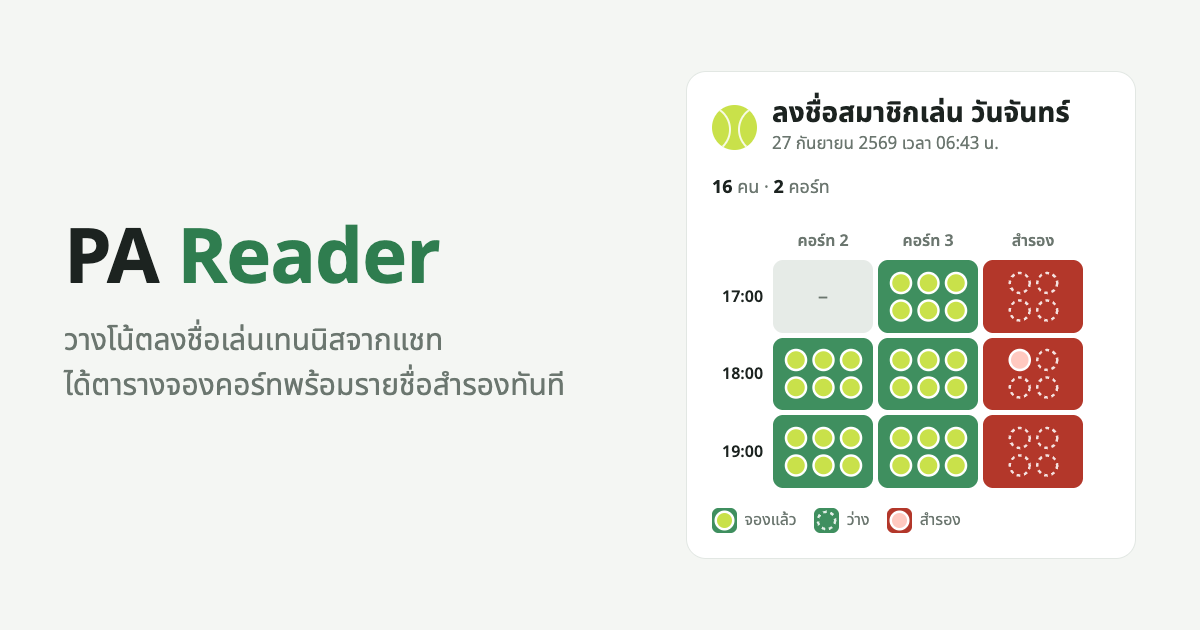
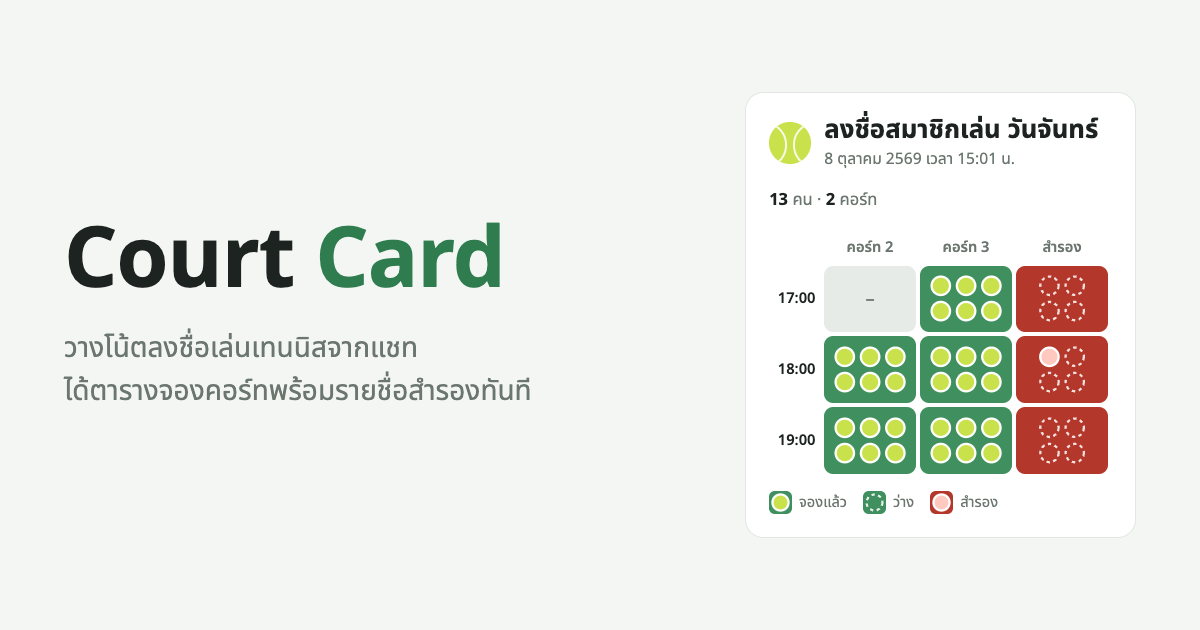
Rename project to Court Card

diff --git a/docs/index.html b/docs/index.html
@@ -3,21 +3,21 @@
 <head>
   <meta charset="utf-8">
   <meta name="viewport" content="width=device-width, initial-scale=1">
-  <title>PA Reader</title>
+  <title>Court Card</title>
   <meta name="description" content="วางโน้ตลงชื่อเล่นเทนนิสจากแชท แล้วได้ตารางจองคอร์ทพร้อมรายชื่อสำรองทันที">
   <meta property="og:type" content="website">
-  <meta property="og:site_name" content="PA Reader">
-  <meta property="og:title" content="PA Reader">
+  <meta property="og:site_name" content="Court Card">
+  <meta property="og:title" content="Court Card">
   <meta property="og:description" content="วางโน้ตลงชื่อเล่นเทนนิสจากแชท แล้วได้ตารางจองคอร์ทพร้อมรายชื่อสำรองทันที">
-  <meta property="og:url" content="https://diewland.github.io/pa-reader/">
+  <meta property="og:url" content="https://diewland.github.io/court-card/">
   <meta property="og:locale" content="th_TH">
-  <meta property="og:image" content="https://diewland.github.io/pa-reader/og.png">
+  <meta property="og:image" content="https://diewland.github.io/court-card/og.png">
   <meta property="og:image:width" content="1200">
   <meta property="og:image:height" content="630">
-  <meta property="og:image:alt" content="PA Reader: ตารางจองคอร์ทเทนนิสพร้อมแถวสำรอง">
+  <meta property="og:image:alt" content="Court Card: ตารางจองคอร์ทเทนนิสพร้อมแถวสำรอง">
   <meta name="twitter:card" content="summary_large_image">
-  <meta name="twitter:title" content="PA Reader">
-  <meta name="twitter:image" content="https://diewland.github.io/pa-reader/og.png">
+  <meta name="twitter:title" content="Court Card">
+  <meta name="twitter:image" content="https://diewland.github.io/court-card/og.png">
   <meta name="twitter:description" content="วางโน้ตลงชื่อเล่นเทนนิสจากแชท แล้วได้ตารางจองคอร์ทพร้อมรายชื่อสำรองทันที">
   <link rel="preconnect" href="https://fonts.googleapis.com">
   <link rel="preconnect" href="https://fonts.gstatic.com" crossorigin>
@@ -28,7 +28,7 @@
   <main class="layout">
     <section class="input">
       <header class="intro">
-        <h1>PA Reader</h1>
+        <h1>Court Card</h1>
       </header>
       <textarea id="note" spellcheck="false" rows="18" placeholder="วางโน้ตลงชื่อประจำวัน"></textarea>
       <div class="actions">

diff --git a/docs/app.js b/docs/app.js
@@ -308,7 +308,7 @@
   function pngName() {
     var d = new Date();
     function p(n) { return String(n).padStart(2, "0"); }
-    return "pa-reader-" + d.getFullYear() + "-" + p(d.getMonth() + 1) + "-" + p(d.getDate()) +
+    return "court-card-" + d.getFullYear() + "-" + p(d.getMonth() + 1) + "-" + p(d.getDate()) +
       "-" + p(d.getHours()) + p(d.getMinutes()) + ".png";
   }
 

diff --git a/CLAUDE.md b/CLAUDE.md
@@ -4,7 +4,7 @@ This file provides guidance to Claude Code (claude.ai/code) when working with co
 
 ## What this is
 
-pa-reader turns a tennis group's daily sign-up note, pasted from chat in Thai, into a reservation graphic. The graphic is a grid of courts × hours. Each court cell shows 6 circles (solid means reserved, blank means available), and a red สำรอง ("reserve") line shows who is left over. Everything runs in the browser. There is no backend, build step or package manager. The only third-party code is html-to-image, loaded from jsDelivr in `index.html` and used only by the Share button.
+Court Card turns a tennis group's daily sign-up note, pasted from chat in Thai, into a reservation graphic. The graphic is a grid of courts × hours. Each court cell shows 6 circles (solid means reserved, blank means available), and a red สำรอง ("reserve") line shows who is left over. Everything runs in the browser. There is no backend, build step or package manager. The only third-party code is html-to-image, loaded from jsDelivr in `index.html` and used only by the Share button.
 
 `docs/` is the website root, served by GitHub Pages from `master` → `/docs`; `.nojekyll` turns Jekyll off. All the site code lives in `docs/`: `index.html`, `app.js` and `style.css`.
 

diff --git a/README.md b/README.md
@@ -1,4 +1,4 @@
-# PA Reader
+# Court Card
 
 Paste the daily tennis sign-up note from the group chat and get a reservation graphic. The graphic is a grid of courts × hours:
 
@@ -16,7 +16,7 @@ The card updates as you type. The **View** button switches between two layouts, 
 
 Everything runs in the browser, with no backend and no build step.
 
-**Live:** https://diewland.github.io/pa-reader/
+**Live:** https://diewland.github.io/court-card/
 
 ## Note format
 
